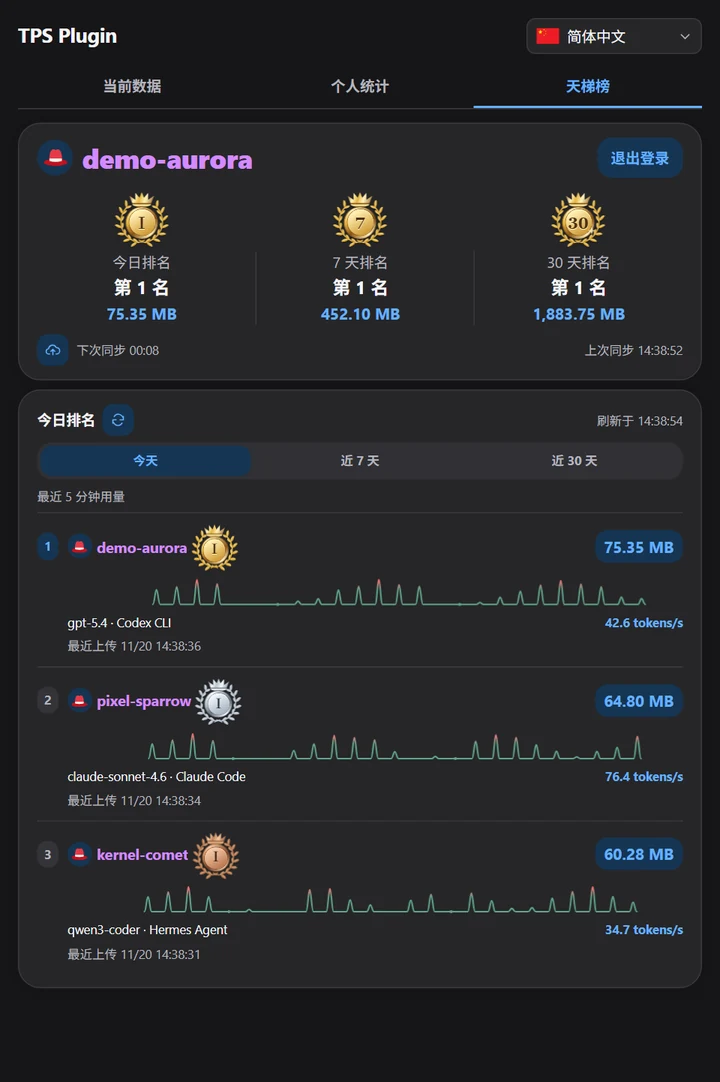
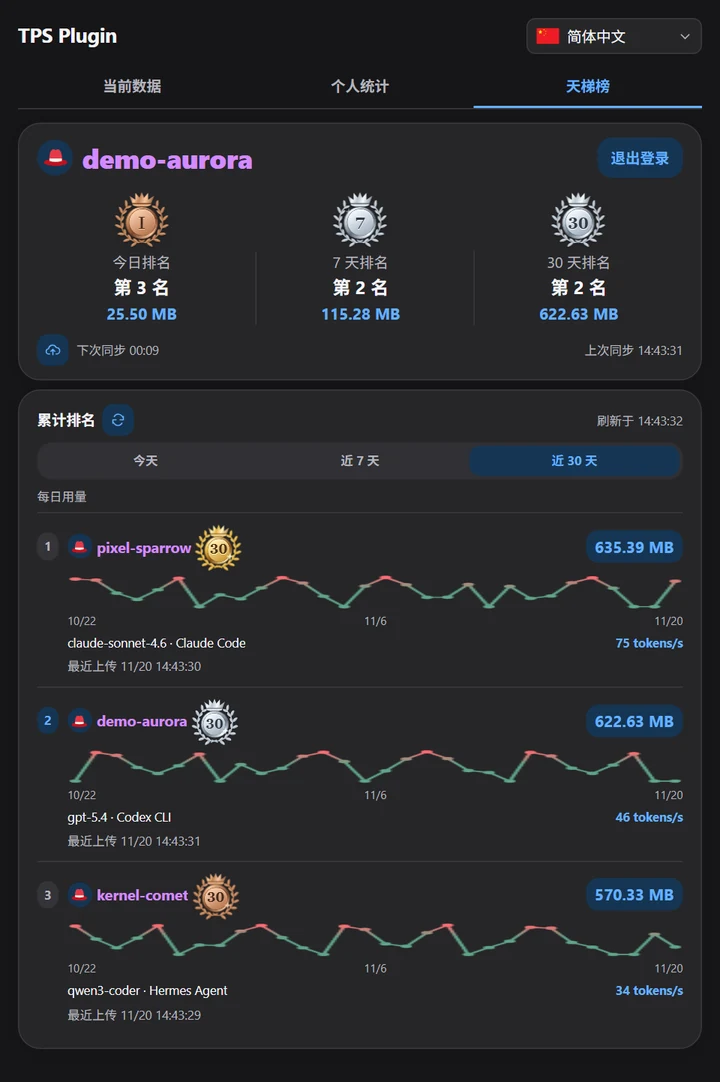
fix: connect daily leaderboard charts and remove chart backgrounds

diff --git a/src/panel.html b/src/panel.html
@@ -286,9 +286,8 @@
     .ladder-recent { grid-area: recent; min-width: 0; }
     .ladder-chart {
       display: block; width: 100%; height: 30px; border-radius: 6px;
-      background: var(--button-bg); color: var(--blue);
+      background: transparent; color: var(--blue);
     }
-    .ladder-chart-pulse { background: transparent; }
     .ladder-chart-axis { display: flex; justify-content: space-between; color: var(--muted); font-size: 10px; margin-top: 3px; }
     .ladder-recent-meta { display: flex; align-items: baseline; justify-content: space-between; gap: 6px; margin-top: 4px; font-size: 11px; }
     .ladder-recent-tools { min-width: 0; overflow: hidden; white-space: nowrap; text-overflow: ellipsis; }
@@ -1522,6 +1521,15 @@
       const usageChartLabel = () => t(rankDays === 1 ? 'leaderboard-five-minute-usage' : 'leaderboard-daily-usage');
       const chartPadding = 4;
 
+      function dailyUsagePoints(daily, left, days) {
+        if (!Array.isArray(daily)) return [];
+        const totals = new Map(daily.map(({ day, tokens }) => [day, tokens]));
+        return Array.from({ length: days }, (_, offset) => {
+          const day = new Date(left + offset * DAY_MS).toISOString().slice(0, 10);
+          return { day, tokens: totals.get(day) ?? 0 };
+        });
+      }
+
       function setUsageGradient(ctx, baseline) {
         const colors = window.getComputedStyle(document.documentElement);
         const low = colors.getPropertyValue('--usage-wave-low').trim();
@@ -1607,14 +1615,13 @@
         tools.className = 'ladder-recent-tools';
         speed.className = 'ladder-recent-speed';
         const byDay = rankDays > 1, latest = recent?.points.at(-1);
-        if (!byDay) chart.classList.add('ladder-chart-pulse');
-        const points = byDay ? daily ?? [] : recent?.points ?? [];
         const dayStart = day => Date.parse(day + 'T00:00:00Z');
         const dateLabel = time => locale.date(time, { timeZone: 'UTC', month: 'numeric', day: 'numeric' });
         const timeOf = point => byDay ? dayStart(point.day) : point.submittedAt;
         const tokensOf = point => byDay ? point.tokens : point.deltaTokens;
         const span = byDay ? (rankDays - 1) * DAY_MS : RECENT_STATS_MS;
         const left = (byDay ? dayStart(renderedDay) : now) - span;
+        const points = byDay ? dailyUsagePoints(daily, left, rankDays) : recent?.points ?? [];
         const speedText = value => Number.isFinite(value) ? `${locale.number(value, { maximumFractionDigits: 1 })} tokens/s` : '—';
         const cli = recent?.topCli;
         const cliLabel = Object.hasOwn(AGENT_LABELS, cli) ? AGENT_LABELS[cli] : cli;
@@ -1622,7 +1629,7 @@
         tools.title = tools.textContent;
         speed.textContent = speedText(latest?.avgTps);
         speed.title = t('leaderboard-average-speed');
-        const pointTitle = point => byDay ? `${point.day} · ${formatTokenMB(point.tokens)}`
+        const pointTitle = point => byDay ? `${point.day} · ${point.tokens === 0 ? `${locale.number(0)} MB` : formatTokenMB(point.tokens)}`
           : `${shortClock(point.submittedAt)} · ${locale.number(point.deltaTokens)} Token · ${speedText(point.avgTps)}`;
         const latestPoint = points.at(-1);
         chart.title = latestPoint ? `${usageChartLabel()}\n${pointTitle(latestPoint)}` : usageChartLabel();
@@ -1652,12 +1659,8 @@
             setUsageGradient(ctx, chart.height - chartPadding);
             ctx.lineWidth = 2;
             ctx.beginPath();
-            let previous = null;
-            for (const point of points) {
-              if (previous && timeOf(point) - timeOf(previous) <= DAY_MS) ctx.lineTo(x(point), y(point));
-              else ctx.moveTo(x(point), y(point));
-              previous = point;
-            }
+            ctx.moveTo(x(points[0]), y(points[0]));
+            for (const point of points.slice(1)) ctx.lineTo(x(point), y(point));
             ctx.stroke();
             for (const point of points) {
               ctx.beginPath();

diff --git a/README.md b/README.md
@@ -54,14 +54,14 @@ Open **TPS Plugin** in Orca’s right sidebar to switch between **Current Data**
 ### 3.3 Leaderboard
 
 - Browse today’s, 7-day, and 30-day rankings. Entries show GitHub avatars, and the top three get gold, silver, and bronze medals.
-- The top 100 entries show a five-minute waveform with one peak per upload on Today and one point per Beijing calendar day on the 7-day and 30-day tabs. Entries also show the latest average generation speed, most-used model and CLI, and last upload time. The leaderboard refreshes every 10 seconds while open.
-- In each chart, lower usage is green and higher usage transitions to red.
+- The top 100 entries show a five-minute waveform with one peak per upload on Today. The 7-day and 30-day charts connect every Beijing calendar day, with zero usage on days without records. Entries also show the latest average generation speed, most-used model and CLI, and last upload time. The leaderboard refreshes every 10 seconds while open.
+- The charts have transparent backgrounds. Lower usage is green and higher usage transitions to red.
 - Sign in with GitHub to participate. The leaderboard combines usage across installations linked to the same account. The plugin fetches avatars directly from GitHub and shows a built-in red hat avatar until one loads. Missing avatars are retried after the next sync, and a loaded avatar is reused everywhere it appears.
 - While signed in, the plugin attempts to sync every 10 seconds. Manual sync shares the same interval. The account card shows the countdown, the last successful sync, and any recent error.
 
 <p align="center">
   <a href="./assets/readme/en/leaderboard.png" title="View full-size screenshot">
-    <img src="./assets/readme/en/leaderboard.webp" width="266" alt="English leaderboard showing today's ranks, five-minute usage waveforms, models, CLIs, and average speeds">
+    <img src="./assets/readme/en/leaderboard.webp" width="266" alt="English 30-day leaderboard with continuous daily usage lines, models, CLIs, and average speeds">
   </a>
 </p>
 

diff --git a/docs/superpowers/specs/2026-11-20-leaderboard-five-minute-stats-design.md b/docs/superpowers/specs/2026-11-20-leaderboard-five-minute-stats-design.md
@@ -55,7 +55,7 @@
 | 断线恢复 | 读取服务器此刻的快照，替换本地数据。 |
 | 离开榜单 | 暂停看榜的自动拉取。 |
 
-今日榜用一条心电图式的细线连接最近 5 分钟的提交记录。每笔记录在实际提交时间画一个平滑的波峰，峰高表示这笔的新增 Token。零值画成基线上的小点，两笔提交之间由平线连接。持续查看时，新峰出现时跳一次，首次打开或重连时直接绘出当前记录。近 7 天和近 30 天榜使用 `daily=1`，每行额外返回 `daily`，由已有的每日榜单成绩组成，格式为 `{ day, tokens }`。日期按北京时间划分，窗口包含今天，缺记录的日期留空。每天的点显示该账号在当天的累计用量。日曲线响应只带最近一笔提交的短期数据，供卡片显示速度、模型和 CLI。
+今日榜用一条心电图式的细线连接最近 5 分钟的提交记录。每笔记录在实际提交时间画一个平滑的波峰，峰高表示这笔的新增 Token。零值画成基线上的小点，两笔提交之间由平线连接。持续查看时，新峰出现时跳一次，首次打开或重连时直接绘出当前记录。近 7 天和近 30 天榜使用 `daily=1`，每行额外返回 `daily`，由已有的每日榜单成绩组成，格式为 `{ day, tokens }`。日期按北京时间划分，窗口包含今天。插件把缺记录的日期补为 0，按日期连续绘制该账号的每日累计用量。三个周期的图表底色透明。日曲线响应只带最近一笔提交的短期数据，供卡片显示速度、模型和 CLI。
 
 三种用量图按每张图的纵轴从绿色渐变到红色，绿色表示该图中较低的用量。
 
